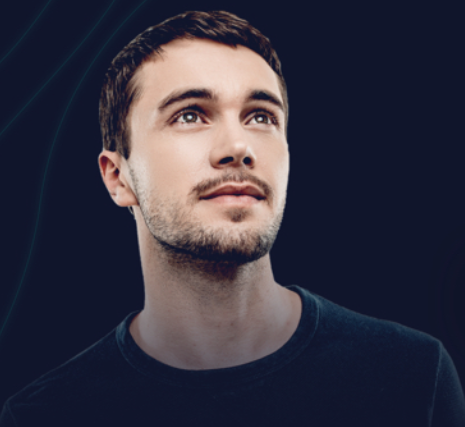
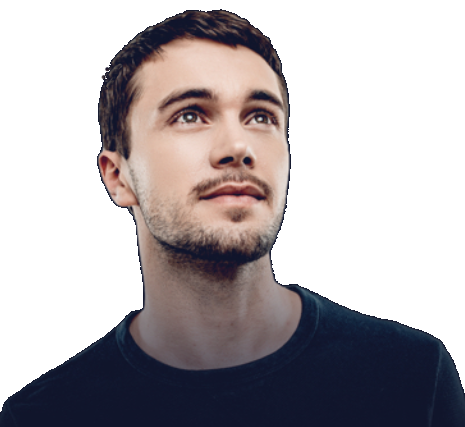
Create full description section

diff --git a/index.html b/index.html
@@ -27,60 +27,149 @@
 </head>
 
 <body>
-  <div class="app">
-    <header class="the-main-header">
-      <figure class="the-main-logo the-main-header__the-main-logo">
-        <a class="the-main-logo__link" href="#">A</a>
-        <!--      <img class="the-main-logo__img" src="img/logo.svg" alt="Logo">-->
-      </figure>
+<div class="app">
+  <header class="the-main-header">
+    <figure class="the-main-logo the-main-header__the-main-logo">
+      <a class="the-main-logo__link" href="#">A</a>
+      <!--      <img class="the-main-logo__img" src="img/logo.svg" alt="Logo">-->
+    </figure>
 
-      <nav class="the-main-nav">
-        <div class="the-main-nav__item"><a class="the-main-nav__link" href="#">About</a></div>
-        <div class="the-main-nav__item"><a class="the-main-nav__link" href="#">Skills</a></div>
-        <div class="the-main-nav__item"><a class="the-main-nav__link" href="#">Projects</a></div>
-      </nav>
+    <nav class="the-main-nav">
+      <div class="the-main-nav__item"><a class="the-main-nav__link" href="#">About</a></div>
+      <div class="the-main-nav__item"><a class="the-main-nav__link" href="#">Skills</a></div>
+      <div class="the-main-nav__item"><a class="the-main-nav__link" href="#">Projects</a></div>
+    </nav>
 
-      <div class="the-contact-button the-main-header__the-contact-button">
-        <div class="the-contact-button__left-border"></div>
-        <span class="the-contact-button__button">Contact Me</span>
+    <div class="the-contact-button the-main-header__the-contact-button">
+      <div class="the-contact-button__left-border"></div>
+      <span class="the-contact-button__button">Contact Me</span>
+    </div>
+  </header>
+
+  <section class="the-section">
+    <main class="the-first-screen">
+      <div class="the-first-screen__photo">
+        <svg width="580" height="540" xmlns="http://www.w3.org/2000/svg">
+          <!-- Define the clip path -->
+          <defs>
+            <clipPath id="circleClip">
+              <path
+                d="M 30 0 L 550 10 L 440 600 L 10 450 L 30 0 Z"
+                stroke-width="1"
+                stroke="#000"
+                fill="none"
+              />
+            </clipPath>
+          </defs>
+
+          <path
+            d="M 30 0 L 550 10 L 440 600 L 10 450 L 30 0 Z"
+            stroke-width="10"
+            stroke="#000"
+            fill="none"
+          />
+
+          <!-- Apply the clip path to an image -->
+          <image href="./img/photo.png" width="580" height="540" clip-path="url(#circleClip)"/>
+        </svg>
       </div>
-    </header>
 
-    <section class="the-section">
-      <main class="the-first-screen">
-        <div class="the-first-screen__photo">
-          <img src="./img/photo.png" alt="">
-        </div>
+      <div class="the-first-screen__info the-main-info">
+        <h1 class="the-main-info__title">Hello!</h1>
 
-        <div class="the-first-screen__info the-main-info">
-          <h1 class="the-main-info__title">Hello!</h1>
-
-          <div class="the-main-info__list">
-            <div class="the-main-info__item">
-              <div class="the-main-info__label">Name:</div>
-              <div class="the-main-info__value">Kirill Murashkin</div>
-            </div>
-
-            <div class="the-main-info__item">
-              <div class="the-main-info__label">Date of birth:</div>
-              <div class="the-main-info__value">20 of March of 1992</div>
-            </div>
+        <div class="the-main-info__list">
+          <div class="the-main-info__item">
+            <div class="the-main-info__label">Role</div>
+            <div class="the-main-info__value">Senior Front-end Developer</div>
           </div>
 
-          <div class="the-main-info__bio">Lorem ipsum dolor sit amet, consectetur adipisicing elit. Accusantium asperiores cum doloribus error fuga ipsam laboriosam libero, obcaecati quae recusandae repellat suscipit veritatis voluptatum? Assumenda cum doloremque ex iusto vitae.</div>
+          <div class="the-main-info__item">
+            <div class="the-main-info__label">Name</div>
+            <div class="the-main-info__value">Kirill Murashkin</div>
+          </div>
+
+          <div class="the-main-info__item">
+            <div class="the-main-info__label">Date of birth</div>
+            <div class="the-main-info__value">20/03/1992</div>
+          </div>
+
+          <div class="the-main-info__item">
+            <div class="the-main-info__label">Experience</div>
+            <div class="the-main-info__value">9 years</div>
+          </div>
+
+          <div class="the-main-info__item">
+            <div class="the-main-info__label">Skills</div>
+            <div class="the-main-info__value">JS/TS<br> Vue.js Nuxt.js <br> Node.js Python</div>
+          </div>
+
+          <div class="the-main-info__item">
+            <div class="the-main-info__label">Languages</div>
+            <div class="the-main-info__value">English Русский Português</div>
+          </div>
         </div>
-      </main>
-    </section>
-
-    <section class="the-section">
-      <div class="the-card">
-        <div class="the-card__title">About Me</div>
-        <div class="the-card__desc">Some description</div>
       </div>
-    </section>
-  </div>
+    </main>
+  </section>
 
-  <script src="js/app.js"></script>
+  <section class="the-section">
+    <div class="the-full-description">
+      <div class="the-bio">
+        <h2>About me</h2>
+
+        <p>Lorem ipsum dolor sit amet, consectetur adipisicing elit. Dicta maiores reiciendis sint. Ad adipisci
+          aliquam, aut eius enim maiores praesentium qui ratione recusandae veniam. A exercitationem fuga fugiat
+          ipsum tenetur.</p>
+
+        <p>Lorem ipsum dolor sit amet, <span class="the-bio__span--highlight--pink">consectetur</span>
+          adipisicing elit. Dicta maiores reiciendis sint. Ad adipisci aliquam, aut eius enim maiores praesentium
+          qui ratione recusandae veniam. A exercitationem fuga fugiat ipsum tenetur.</p>
+
+        <p>Lorem ipsum dolor sit amet, <span class="the-bio__span--highlight--pink">consectetur</span>
+          adipisicing elit. Dicta maiores reiciendis sint. Ad adipisci aliquam, aut eius enim maiores praesentium
+          qui ratione recusandae veniam. A exercitationem fuga fugiat ipsum tenetur.</p>
+      </div>
+
+      <div class="the-timeline">
+        <div class="the-timeline__line"></div>
+
+        <div class="the-timeline__list">
+          <div class="the-timeline__item">
+            <div class="the-timeline__item-title">Virtual Health</div>
+            <div class="the-timeline__item-date">2019 - current</div>
+            <div class="the-timeline__item-description">Lorem ipsum dolor sit amet, consectetur adipisicing elit. Aliquam autem expedita iusto obcaecati sed. A atque cupiditate deserunt dignissimos dolorem, fugiat illum in incidunt maiores neque possimus repellat sunt vel?</div>
+          </div>
+
+          <div class="the-timeline__item">
+            <div class="the-timeline__item-title">Virtual Health</div>
+            <div class="the-timeline__item-date">2019 - current</div>
+            <div class="the-timeline__item-description">Lorem ipsum dolor sit amet, consectetur adipisicing elit. Aliquam autem expedita iusto obcaecati sed. A atque cupiditate deserunt dignissimos dolorem, fugiat illum in incidunt maiores neque possimus repellat sunt vel?</div>
+          </div>
+
+          <div class="the-timeline__item">
+            <div class="the-timeline__item-title">Virtual Health</div>
+            <div class="the-timeline__item-date">2019 - current</div>
+            <div class="the-timeline__item-description">Lorem ipsum dolor sit amet, consectetur adipisicing elit. Aliquam autem expedita iusto obcaecati sed. A atque cupiditate deserunt dignissimos dolorem, fugiat illum in incidunt maiores neque possimus repellat sunt vel?</div>
+          </div>
+
+          <div class="the-timeline__item">
+            <div class="the-timeline__item-title">Virtual Health</div>
+            <div class="the-timeline__item-date">2019 - current</div>
+            <div class="the-timeline__item-description">Lorem ipsum dolor sit amet, consectetur adipisicing elit. Aliquam autem expedita iusto obcaecati sed. A atque cupiditate deserunt dignissimos dolorem, fugiat illum in incidunt maiores neque possimus repellat sunt vel?</div>
+          </div>
+        </div>
+      </div>
+    </div>
+  </section>
+
+  <section class="the-section">
+    <div class="the-card">
+      <div class="the-card__title">About Me</div>
+    </div>
+  </section>
+</div>
+
+<script src="js/app.js"></script>
 </body>
 
 </html>

diff --git a/css/app.css b/css/app.css
@@ -20,27 +20,122 @@
   display: grid;
   grid-template-columns: 1fr 1fr;
   gap: 20px;
-  padding: 20px 10px;
-  background: var(--color__metallic--main);
-  border-radius: 20px;
+  padding: 20px 30px;
+  background-color: #000000;
+  background-image: linear-gradient(315deg, #000000 0%, #7f8c8d 74%);
+  border: solid 4px var(--color__dark--main);
+  border-radius: 2px;
 
   & .the-first-screen__photo {
-    height: 400px;
+    height: 490px;
+    padding: 20px 10px;
+    background-size: cover;
   }
 
   & .the-first-screen__info {
-    height: 400px;
+    height: 490px;
   }
 }
 
 .the-main-info {
-  padding: 20px 10px;
+  padding: 20px 30px;
   border-radius: 20px;
   background-color: var(--color__dark--main);
 
   & .the-main-info__title {
-    font-size: 6em;
+    letter-spacing: -3px;
+    font-size: 4em;
     font-weight: bold;
     text-transform: uppercase;
+  }
+
+  & .the-main-info__list {
+    margin-top: 30px;
+  }
+
+  & .the-main-info__item {
+    display: flex;
+    width: 100%;
+    justify-content: space-between;
+    margin-bottom: 10px;
+    font-size: 1.6em;
+    line-height: 2rem;
+  }
+
+  & .the-main-info__label {
+    color: var(--color__gray--main);
+    letter-spacing: -1px;
+  }
+
+  & .the-main-info__value {
+    margin-left: 10px;
+    text-align: right;
+    letter-spacing: -0.5px;
+  }
+}
+
+.the-full-description {
+  display: grid;
+  gap: 100px;
+  grid-template-columns: 1fr 1fr;
+  align-items: start;
+}
+
+.the-bio {
+  h2 {
+    font-size: 2em;
+    font-weight: bold;
+    margin-bottom: 20px;
+  }
+
+  p {
+    margin-bottom: 10px;
+    font-size: 1.4em;
+    letter-spacing: -0.2px;
+    line-height: 1.3em;
+    color: var(--color__white--main);
+  }
+
+  & .the-bio__span--highlight--green {
+    color: var(--color__green--main);
+  }
+
+  & .the-bio__span--highlight--pink {
+    color: var(--color__pink--main);
+  }
+}
+
+.the-timeline {
+  position: relative;
+  padding-right: 100px;
+
+  & .the-timeline__line {
+    position: absolute;
+    top: 0;
+    width: 1px;
+    height: 100%;
+    right: 20px;
+    background: var(--color__white--main);
+  }
+
+  & .the-timeline__item {
+    margin-bottom: 50px;
+    text-align: right;
+    color: var(--color__white--main);
+  }
+
+  & .the-timeline__item-title {
+    margin-bottom: 10px;
+    font-size: 1.8em;
+  }
+
+  & .the-timeline__item-date {
+    margin-bottom: 10px;
+    font-size: 1.4em;
+  }
+
+  & .the-timeline__item-description {
+    line-height: 1.3em;
+    font-size: 1.3em;
   }
 }

diff --git a/css/header.css b/css/header.css
@@ -2,7 +2,6 @@
   display: grid;
   grid-template-columns: 100px 1fr 200px;
   align-items: start;
-  height: 100px;
   padding: 20px 10px;
 
   & .the-contact-button {
@@ -21,24 +20,24 @@
 .the-main-nav {
   display: flex;
   justify-content: flex-start;
-}
 
-.the-main-nav__item {
-  margin-right: 20px;
-}
+  .the-main-nav__item {
+    margin-right: 20px;
+  }
 
-.the-main-nav__link {
-  position: relative;
-  margin-right: 20px;
-  font-size: 16px;
-  font-weight: 600;
-  text-decoration: none;
-  color: var(--color__gray--main);
-  cursor: pointer;
-  transition: 0.5s;
+  .the-main-nav__link {
+    position: relative;
+    margin-right: 20px;
+    font-size: 16px;
+    font-weight: 600;
+    text-decoration: none;
+    color: var(--color__gray--main);
+    cursor: pointer;
+    transition: 0.5s;
 
-  &:hover {
-    color: var(--color__white--main);
+    &:hover {
+      color: var(--color__white--main);
+    }
   }
 }
 

diff --git a/css/general.css b/css/general.css
@@ -21,3 +21,7 @@ body {
 ::-webkit-scrollbar-thumb {
   background: var(--color__gray--main);
 }
+
+.the-section {
+  margin-top: 50px;
+}
